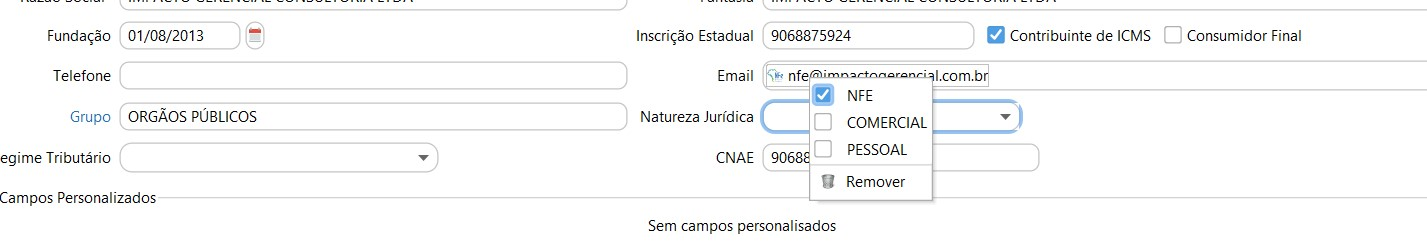
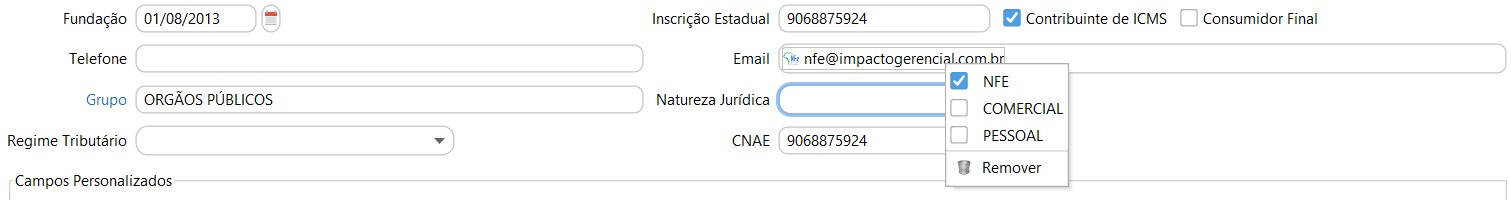
ataulziacao_email_destinatario
ataulziacao_email_destinatario

diff --git a/docs/sistema_parametrizacao.md b/docs/sistema_parametrizacao.md
@@ -28,17 +28,21 @@ As parametrizações fiscais devem ser feitas para cada empresa cadastrada e est
 
 `Logo Danfe` pode ser definido se haverá ou não impressão de Logo no DANFE do NF-E e se será a logo da empresa ou logo da NF-e
 
-{: #emailparticipante}
+{: #emaildestinatario}
 
-`Enviar e-mail para o participante`deve ser marcado quando a empresa deseja enviar automaticamente o DANFE e XML para os participantes, que pode ser um cliente ou fornecedor, da NF-e que foi emitida. Ao marcar este campo, no momento da autorização da NF-e o sistema irá enviar automaticamente os documentos para o(s) endereços de e-mail tipo NF-e informados no cadastro do cliente ou fornecedor.
+`Enviar e-mail para o destinatário` deve ser marcado se a empresa deseja ou não enviar automaticamente o DANFE e XML para os participantes da NF-e, que pode ser um cliente ou fornecedor. Ao marcar XML, Danfe ou Ambos,  no momento da autorização da NF-e o sistema irá enviar automaticamente os documentos para o(s) endereços de e-mail tipo NF-e informados no cadastro do cliente ou fornecedor.
 
-![](images/sistema_parametrizacao_fiscal_nfe.jpg)
+![](images/sistema_parametrizacao_fiscal_nfe_emaildestinatario.jpg)
 
-Deve-se atentar que se não houver e-mail parametrizado como NFE no cadastro do participante o e-mail não serão enviado.
+Deve-se atentar para que se não houver e-mail parametrizado como NFE no cadastro do participante o e-mail não serão enviado.
 
 ![](images/sistema_parametrizacao_nfe_emailparticipante.jpg)
 
+Os e-mails enviados podem ser consultados através da tela de pesquisa de e-mails enviados, no menu administração.
 
+Para este caso, pode-se filtrar pela origem "NF-e Autorizada" pelo endereço de e-mail do destinatário ou até mesmo pelo número da NF-e no campo assunto:
+
+![](images/sistema_parametrizacoes_pesquisa_emails_enviados.jpg)
 
 {: #nfce}
 

diff --git a/docs/gestao_fiscal_gestao_dfe.md b/docs/gestao_fiscal_gestao_dfe.md
@@ -196,7 +196,7 @@ Na parte inferior da tela constam o histórico das de todas as contingências e 
 
 ### Exportar XML
 
-O XML ou XML e DANFE são enviados automaticamente ao cliente ou fornecedor, se assim parametrizado no campo [Enviar e-mail para o participante](sistema_parametrizacao.md#emailparticipante).
+O XML ou XML e DANFE são enviados automaticamente ao cliente ou fornecedor, se assim parametrizado no campo [Enviar e-mail para o destinatario](sistema_parametrizacao.md#emaildestinatario).
 
 Além desse envio automático, os XMLs das NF-es podem ser extraídos através do menu Exportar xml, onde deve ser informado o período de emissão e o tipo de documento .Os arquivos podem ser salvos ou enviados por e-mail.
 
